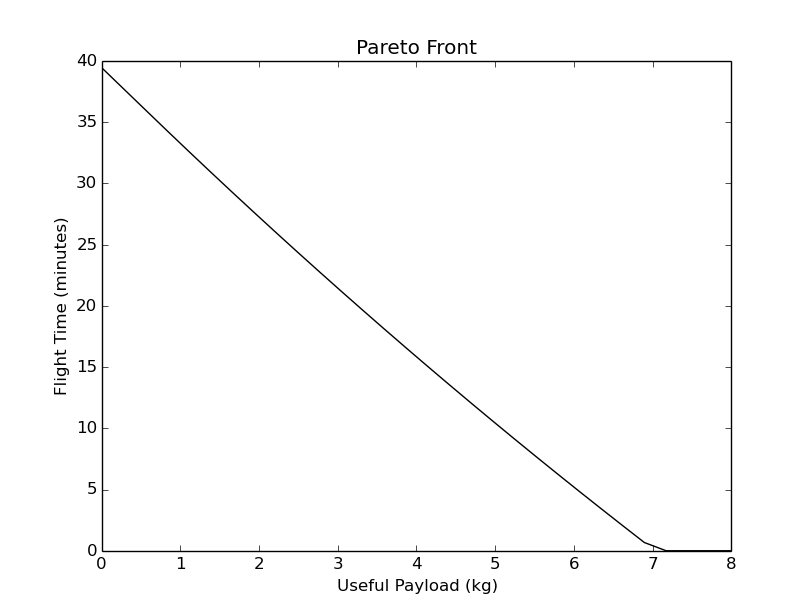
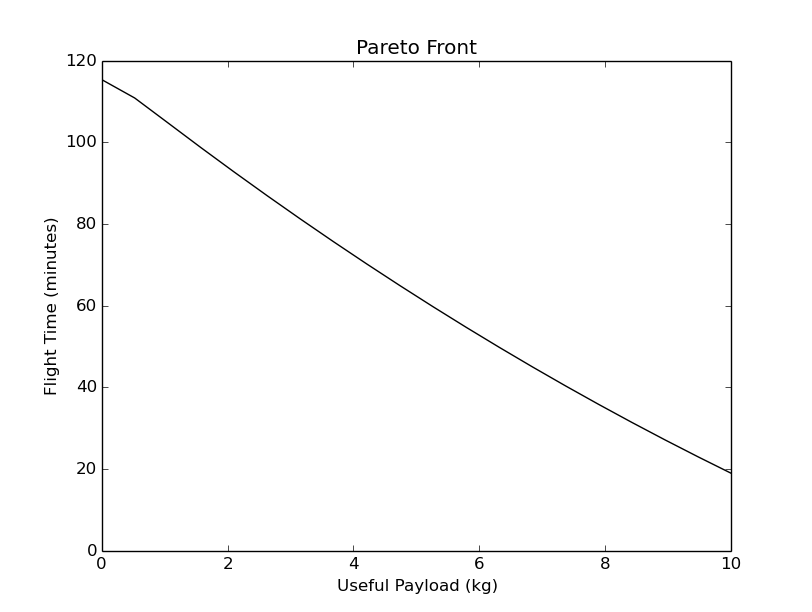
small revisions

diff --git a/python/project.py b/python/project.py
@@ -38,9 +38,9 @@ if __name__ == '__main__':
 
 
     # Create the pareto frunt
-    '''
-    steps = 10
-    payloads = np.linspace(0.0, 8.0, num=steps)
+
+    steps = 20
+    payloads = np.linspace(0.0, 10.0, num=steps)
     flight_times = np.zeros(steps)
     engine_size = np.zeros(steps)
     for i in range(steps):
@@ -49,7 +49,7 @@ if __name__ == '__main__':
         xopt, fopt, info = optimize(obj_func, x0, lb, ub, optimizer)
         flight_times[i] = -fopt/60
         engine_size[i] = xopt[0]*80.0
-        engine_size[i] = xopt[3]
+        # engine_size[i] = xopt[3]
 
     plt.figure()
     plt.xlabel('Useful Payload (kg)')  # labels for axes
@@ -94,3 +94,4 @@ if __name__ == '__main__':
     print multiOpt(xopt)
 
     out = obj_func_print(xopt)
+    '''

diff --git a/presentation/presentation.tex b/presentation/presentation.tex
@@ -42,6 +42,7 @@
 	\item{Power is transfered through torque tubes to the rotors.}
 	\item{All rotors must be variable pitch.}
 	\item{Theoretically capable of longer flight times than battery powered multirotors because of higher specific energy of gasoline.}
+	\item{FAA requires less then 55lbs}
 	\end{itemize}
 \end{frame}
 
